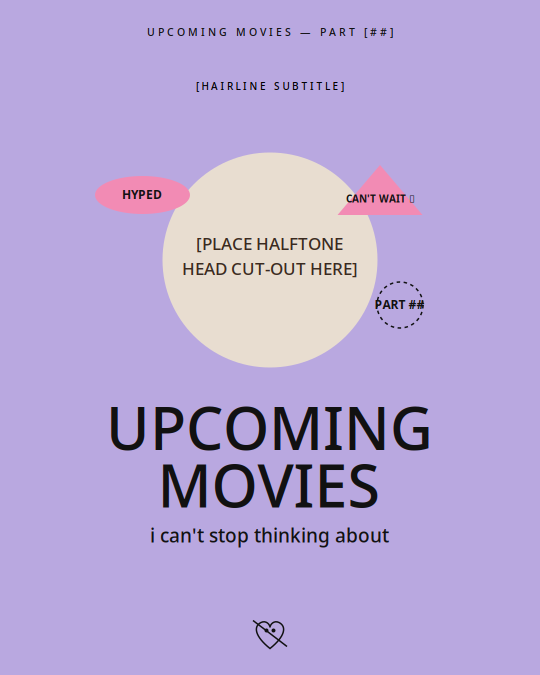
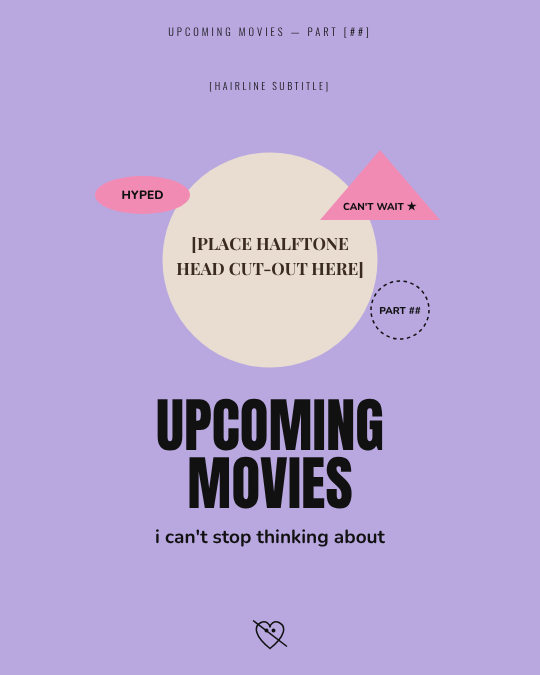
Fix kit issues: broken ASE, template bugs, doc errors
- Regenerate 01-palette.ase: name length was written as uint32 instead of
  the spec's uint16, so Adobe apps would read empty names and corrupt
  colours. Now built from 01-palette.json.
- Swatch sheet: pick black/white labels by WCAG contrast, make swatches
  actually click-to-copy, add viewport meta.
- Templates: replace "BY MARINA MAY" hairline credits with [YOUR HANDLE]
  per the kit's rights note; add missing director line to 04; set font
  weights the type guide specifies (Oswald Light, Playfair Bold, Nunito
  Bold/ExtraBold); fix sticker and still-label text overflowing shapes
  (01, 03); move the 06 highlight bar behind the text it highlights.
- Re-render previews with the real Google Fonts.
- Docs: fix grain row in folder map, garbled hairline size note, grain
  overlay instructions; note the audit doc isn't included.

Claude-Session: https://claude.ai/code/session_0123kpTEnmiF6qmUdDGogH8X

diff --git a/bymarinamay-kit/01-palette-swatch-sheet.html b/bymarinamay-kit/01-palette-swatch-sheet.html
@@ -1,28 +1,30 @@
-<!doctype html><html><head><meta charset="utf-8"><title>@bymarinamay palette — estimates</title>
-<style>body{font-family:Arial,sans-serif;background:#f6f3ee;margin:32px}h1{font-size:22px}p{color:#555;max-width:720px}.grid{display:grid;grid-template-columns:repeat(auto-fill,minmax(180px,1fr));gap:12px}.sw{border-radius:12px;padding:16px;min-height:86px;display:flex;flex-direction:column;justify-content:space-between}.sw span{font-family:monospace}</style></head>
-<body><h1>@bymarinamay — Topic-Coded Palette</h1><p>Visual estimates (~) from the 2026-10-24 audit, not sampled from source files. Rule: one flat grainy ground per carousel, hue codes the topic. Click a hex in your design tool and paste.</p><div class="grid"><div class="sw" style="background:#C8102E;color:#fff"><b>Signature Blood Red</b><span>#C8102E</span></div>
-<div class="sw" style="background:#A3203A;color:#fff"><b>Substack Grain Crimson</b><span>#A3203A</span></div>
-<div class="sw" style="background:#D92B2B;color:#fff"><b>Reel Cover Red</b><span>#D92B2B</span></div>
-<div class="sw" style="background:#3A2A20;color:#fff"><b>Panel Brown</b><span>#3A2A20</span></div>
-<div class="sw" style="background:#3A3A3A;color:#fff"><b>Charcoal Vampire</b><span>#3A3A3A</span></div>
-<div class="sw" style="background:#111111;color:#fff"><b>Ink Black</b><span>#111111</span></div>
-<div class="sw" style="background:#F3EAD8;color:#111"><b>Cream Poster</b><span>#F3EAD8</span></div>
-<div class="sw" style="background:#2B3A55;color:#fff"><b>Folk Navy</b><span>#2B3A55</span></div>
-<div class="sw" style="background:#7FA653;color:#fff"><b>Upcoming Olive</b><span>#7FA653</span></div>
-<div class="sw" style="background:#8AA85C;color:#fff"><b>Upcoming Olive Light</b><span>#8AA85C</span></div>
-<div class="sw" style="background:#B9A8E0;color:#111"><b>Upcoming Lavender</b><span>#B9A8E0</span></div>
-<div class="sw" style="background:#F2B8CE;color:#111"><b>Queer Pink</b><span>#F2B8CE</span></div>
-<div class="sw" style="background:#E8A8C8;color:#111"><b>Queer Gradient Pink</b><span>#E8A8C8</span></div>
-<div class="sw" style="background:#A8B8E8;color:#111"><b>Queer Gradient Lavender-Blue</b><span>#A8B8E8</span></div>
-<div class="sw" style="background:#E87E2E;color:#fff"><b>Greek Burnt Orange</b><span>#E87E2E</span></div>
-<div class="sw" style="background:#F07A2A;color:#fff"><b>Greek Burnt Orange Alt</b><span>#F07A2A</span></div>
-<div class="sw" style="background:#BFD6DB;color:#111"><b>Essay Pale Blue</b><span>#BFD6DB</span></div>
-<div class="sw" style="background:#A9C6CC;color:#fff"><b>Essay Pale Blue Deep</b><span>#A9C6CC</span></div>
-<div class="sw" style="background:#DCE6EA;color:#111"><b>Substack Pale</b><span>#DCE6EA</span></div>
-<div class="sw" style="background:#F28BB4;color:#fff"><b>Sticker Pink</b><span>#F28BB4</span></div>
-<div class="sw" style="background:#8B7FD4;color:#fff"><b>Sticker Purple</b><span>#8B7FD4</span></div>
-<div class="sw" style="background:#A8D8B9;color:#111"><b>Sticker Mint</b><span>#A8D8B9</span></div>
-<div class="sw" style="background:#E9B949;color:#111"><b>Sticker Mustard</b><span>#E9B949</span></div>
-<div class="sw" style="background:#2A9D8F;color:#fff"><b>Sticker Teal</b><span>#2A9D8F</span></div>
-<div class="sw" style="background:#A8C8E8;color:#111"><b>Sticker Sky</b><span>#A8C8E8</span></div>
-</div></body></html>
+<!doctype html><html><head><meta charset="utf-8"><meta name="viewport" content="width=device-width,initial-scale=1"><title>@bymarinamay palette — estimates</title>
+<style>body{font-family:Arial,sans-serif;background:#f6f3ee;margin:32px 16px}h1{font-size:22px}p{color:#555;max-width:720px}.grid{display:grid;grid-template-columns:repeat(auto-fill,minmax(160px,1fr));gap:12px}.sw{border:0;border-radius:12px;padding:16px;min-height:86px;display:flex;flex-direction:column;justify-content:space-between;text-align:left;font:inherit;cursor:pointer}.sw span{font-family:monospace;font-size:15px}.sw.copied span::after{content:"  copied"}</style></head>
+<body><h1>@bymarinamay — Topic-Coded Palette</h1><p>Visual estimates (~) from the 2026-10-24 audit, not sampled from source files. Rule: one flat grainy ground per carousel, hue codes the topic. Click a swatch to copy its hex; hover for its role.</p><div class="grid"><button class="sw" style="background:#C8102E;color:#ffffff" data-hex="#C8102E" title="Arches, banners, horror accent, logo divider"><b>Signature Blood Red</b><span>#C8102E</span></button>
+<button class="sw" style="background:#A3203A;color:#ffffff" data-hex="#A3203A" title="Substack mark field, deep red alternative"><b>Substack Grain Crimson</b><span>#A3203A</span></button>
+<button class="sw" style="background:#D92B2B;color:#ffffff" data-hex="#D92B2B" title="Reel covers, diary covers"><b>Reel Cover Red</b><span>#D92B2B</span></button>
+<button class="sw" style="background:#3A2A20;color:#ffffff" data-hex="#3A2A20" title="Upcoming central panel — the constant"><b>Panel Brown</b><span>#3A2A20</span></button>
+<button class="sw" style="background:#3A3A3A;color:#ffffff" data-hex="#3A3A3A" title="Queer Vampires ground"><b>Charcoal Vampire</b><span>#3A3A3A</span></button>
+<button class="sw" style="background:#111111;color:#ffffff" data-hex="#111111" title="Titles on light grounds"><b>Ink Black</b><span>#111111</span></button>
+<button class="sw" style="background:#F3EAD8;color:#111111" data-hex="#F3EAD8" title="Folk Horror type, Greek meander, light text on navy/brown"><b>Cream Poster</b><span>#F3EAD8</span></button>
+<button class="sw" style="background:#2B3A55;color:#ffffff" data-hex="#2B3A55" title="Folk Horror ground"><b>Folk Navy</b><span>#2B3A55</span></button>
+<button class="sw" style="background:#7FA653;color:#111111" data-hex="#7FA653" title="Upcoming Films early ground (Pt.7)"><b>Upcoming Olive</b><span>#7FA653</span></button>
+<button class="sw" style="background:#8AA85C;color:#111111" data-hex="#8AA85C" title="Upcoming Olive highlight/grain variation"><b>Upcoming Olive Light</b><span>#8AA85C</span></button>
+<button class="sw" style="background:#B9A8E0;color:#111111" data-hex="#B9A8E0" title="Upcoming Pt.30 ground"><b>Upcoming Lavender</b><span>#B9A8E0</span></button>
+<button class="sw" style="background:#F2B8CE;color:#111111" data-hex="#F2B8CE" title="Queer Movies film slides"><b>Queer Pink</b><span>#F2B8CE</span></button>
+<button class="sw" style="background:#E8A8C8;color:#111111" data-hex="#E8A8C8" title="Queer Movies cover gradient top"><b>Queer Gradient Pink</b><span>#E8A8C8</span></button>
+<button class="sw" style="background:#A8B8E8;color:#111111" data-hex="#A8B8E8" title="Queer Movies cover gradient bottom"><b>Queer Gradient Lavender-Blue</b><span>#A8B8E8</span></button>
+<button class="sw" style="background:#E87E2E;color:#111111" data-hex="#E87E2E" title="Greek Myth ground"><b>Greek Burnt Orange</b><span>#E87E2E</span></button>
+<button class="sw" style="background:#F07A2A;color:#111111" data-hex="#F07A2A" title="Greek Myth variation"><b>Greek Burnt Orange Alt</b><span>#F07A2A</span></button>
+<button class="sw" style="background:#BFD6DB;color:#111111" data-hex="#BFD6DB" title="FrameXFrame Instagram ground"><b>Essay Pale Blue</b><span>#BFD6DB</span></button>
+<button class="sw" style="background:#A9C6CC;color:#111111" data-hex="#A9C6CC" title="FrameXFrame shading/highlight"><b>Essay Pale Blue Deep</b><span>#A9C6CC</span></button>
+<button class="sw" style="background:#DCE6EA;color:#111111" data-hex="#DCE6EA" title="Substack page ground/header band"><b>Substack Pale</b><span>#DCE6EA</span></button>
+<button class="sw" style="background:#F28BB4;color:#111111" data-hex="#F28BB4" title="Pt.30 sticker system — primary"><b>Sticker Pink</b><span>#F28BB4</span></button>
+<button class="sw" style="background:#8B7FD4;color:#111111" data-hex="#8B7FD4" title="Pt.30 sticker system — secondary"><b>Sticker Purple</b><span>#8B7FD4</span></button>
+<button class="sw" style="background:#A8D8B9;color:#111111" data-hex="#A8D8B9" title="Classic sticker system accent"><b>Sticker Mint</b><span>#A8D8B9</span></button>
+<button class="sw" style="background:#E9B949;color:#111111" data-hex="#E9B949" title="Classic sticker / Highlights"><b>Sticker Mustard</b><span>#E9B949</span></button>
+<button class="sw" style="background:#2A9D8F;color:#111111" data-hex="#2A9D8F" title="Classic sticker accent"><b>Sticker Teal</b><span>#2A9D8F</span></button>
+<button class="sw" style="background:#A8C8E8;color:#111111" data-hex="#A8C8E8" title="Classic sticker / Drama"><b>Sticker Sky</b><span>#A8C8E8</span></button>
+</div>
+<script>document.querySelectorAll('.sw').forEach(function(b){b.addEventListener('click',function(){var h=b.dataset.hex;try{navigator.clipboard.writeText(h).then(function(){b.classList.add('copied');setTimeout(function(){b.classList.remove('copied')},1200)})}catch(e){prompt('Copy hex:',h)}})});</script>
+</body></html>

diff --git a/bymarinamay-kit/00-KIT-GUIDE.md b/bymarinamay-kit/00-KIT-GUIDE.md
@@ -2,7 +2,7 @@
 
 **What this is:** A working production kit built from the full brand audit (Oct 24, 2026) — palette files you can import, font casting you can install today, 8 editable carousel templates, caption templates, a sticker/frame library, and a production checklist. Open this file first; everything else in the folder plugs into it.
 
-**What this is not:** Her source files. Her actual fonts were never confirmed in any visible source, and her hex values are screenshot estimates. This kit recreates the *system* faithfully with free, licensed-for-use tools. Credit/audit trail is in the companion audit document.
+**What this is not:** Her source files. Her actual fonts were never confirmed in any visible source, and her hex values are screenshot estimates. This kit recreates the *system* faithfully with free, licensed-for-use tools. Credit/audit trail is in the companion audit document (`bymarinamay-brand-audit-2026-10-24.md`, not included in this folder).
 
 ---
 
@@ -12,14 +12,14 @@
 | `00-KIT-GUIDE.md` | This guide — system, sizes, workflow |
 | `01-palette.ase` | Import into Photoshop / Illustrator / Procreate (Swatches → Load) |
 | `01-palette.css` / `01-palette.json` | Web, Figma plugins, code, Notion/HTML work |
-| `01-palette-swatch-sheet.html` | Open in a browser — visual palette, click-ready hex list |
+| `01-palette-swatch-sheet.html` | Open in a browser — visual palette; click a swatch to copy its hex |
 | `02-fonts.css` | Google Fonts import + ready CSS classes for every type role |
 | `02-fonts-guide.md` | Which font for which role, at which size — the casting table |
 | `03-caption-and-voice-templates.md` | 6 copy-paste caption templates (Upcoming, Lens list, Essay, Recap, Spanish, Sponsored) + voice rules + hashtag bank |
 | `04-stickers-frames-and-image-rules.md` | Sticker library, frame library, halftone/duotone/grain recipes |
 | `templates/01–08 .svg` | Editable 1080×1350 carousel templates — open in Illustrator, Figma, Canva (upload), or any SVG editor; all text is live text |
-| `previews/01–08 .png` | Rendered previews of each template — what it should look like before you add photos (preview fonts are renderer fallbacks; yours will match file 02 once installed) |
-| `assets/grain-overlay-tile-540x675.png` — scale to 200% when you place it; noise is scale-tolerant | Drop over every finished slide, last step |
+| `previews/01–08 .png` | Rendered previews of each template — what it should look like before you add photos (rendered at half size, 540×675, with the Google Fonts from file 02) |
+| `assets/grain-overlay-tile-540x675.png` | Drop over every finished slide, last step — scale to 200% (1080×1350) when you place it; noise is scale-tolerant |
 
 ---
 
@@ -34,7 +34,7 @@
 4. One central image in the series frame — halftone/duotone/sepia, cut out
 5. Director, small, always
 6. Synopsis/body, small — italic serif (lists), typewriter (essays), rounded sans (text-forward)
-7. Heart-arrow sign-off mark, tiny, foot centre *(the templates include a simplified original drawing in that position — replace with your own mark if this kit is for your own account)*
+7. Heart-arrow sign-off mark, tiny, foot centre *(the templates include a simplified original drawing in that position — replace it with your own mark, and fill the `[YOUR HANDLE]` slot in the hairline credits, if this kit is for your own account)*
 8. End card — ONE CTA only
 
 **Topic coding — pick the row, get the whole look:**

diff --git a/bymarinamay-kit/04-stickers-frames-and-image-rules.md b/bymarinamay-kit/04-stickers-frames-and-image-rules.md
@@ -50,7 +50,7 @@ Procreate/Affinity: halftone brush/pattern layer + clipping mask works for cover
 B/W photo → warm sepia gradient map (shadows brown, highlights cream) → halftone lightly → cut out → centre it, let stickers overlap the head. This head is a cover device only — don't use it on film slides.
 
 ### Grain (mandatory, last step)
-Overlay `assets/grain-overlay-tile-540x675.png`, scaled to 200% to cover the slide, at 100% over the finished slide, or: Photoshop Filter → Noise → Add Noise 12–18%, Gaussian, Monochromatic, on a 50% grey overlay layer at 30–50% opacity. Flat colour without grain reads as a different brand.
+Place `assets/grain-overlay-tile-540x675.png` on top of the finished, flattened slide, scaled to 200% so it covers the full 1080×1350, at 100% opacity (the tile is already transparent and subtle). Or: Photoshop Filter → Noise → Add Noise 12–18%, Gaussian, Monochromatic, on a 50% grey overlay layer at 30–50% opacity. Flat colour without grain reads as a different brand.
 
 ### Full-colour exception
 FrameXFrame/art posts ONLY: keep the still in full colour (the film's colour is the evidence), add grain, thin black border. Duotoning an art-analysis still destroys the point of the post.

diff --git a/bymarinamay-kit/02-fonts-guide.md b/bymarinamay-kit/02-fonts-guide.md
@@ -11,7 +11,7 @@
 
 | Role | Use this | Size at 1080×1350 | Case / spacing | Colour |
 |---|---|---|---|---|
-| Hairline credit (top of every slide) | Oswald Light | 19–24 pt equiv. (~50–64px is too big — keep it TINY, ~48px max in a 1080 canvas at display size; in the SVG templates it's set at 19–24 units for a reason) | ALL CAPS, tracking +300 to +600 | Ground-contrast: black on light, cream/white on dark |
+| Hairline credit (top of every slide) | Oswald Light | 19–24 px on the 1080 canvas (the SVG templates use 19–21) — keep it TINY; if it reads at thumbnail size it's too big | ALL CAPS, tracking +300 to +600 | Ground-contrast: black on light, cream/white on dark |
 | Display — Upcoming / Queer lists | Anton | Cover 110–120, film slide 88–104 | ALL CAPS, tight leading 0.95 | Black on light ground, white on brown panel |
 | Display — Folk Horror | Playfair Display Bold | 88–96 | ALL CAPS | Cream #F3EAD8 on navy |
 | Display — Vampires / wordmark | Pirata One | 88–96 | Title case | White on charcoal |
